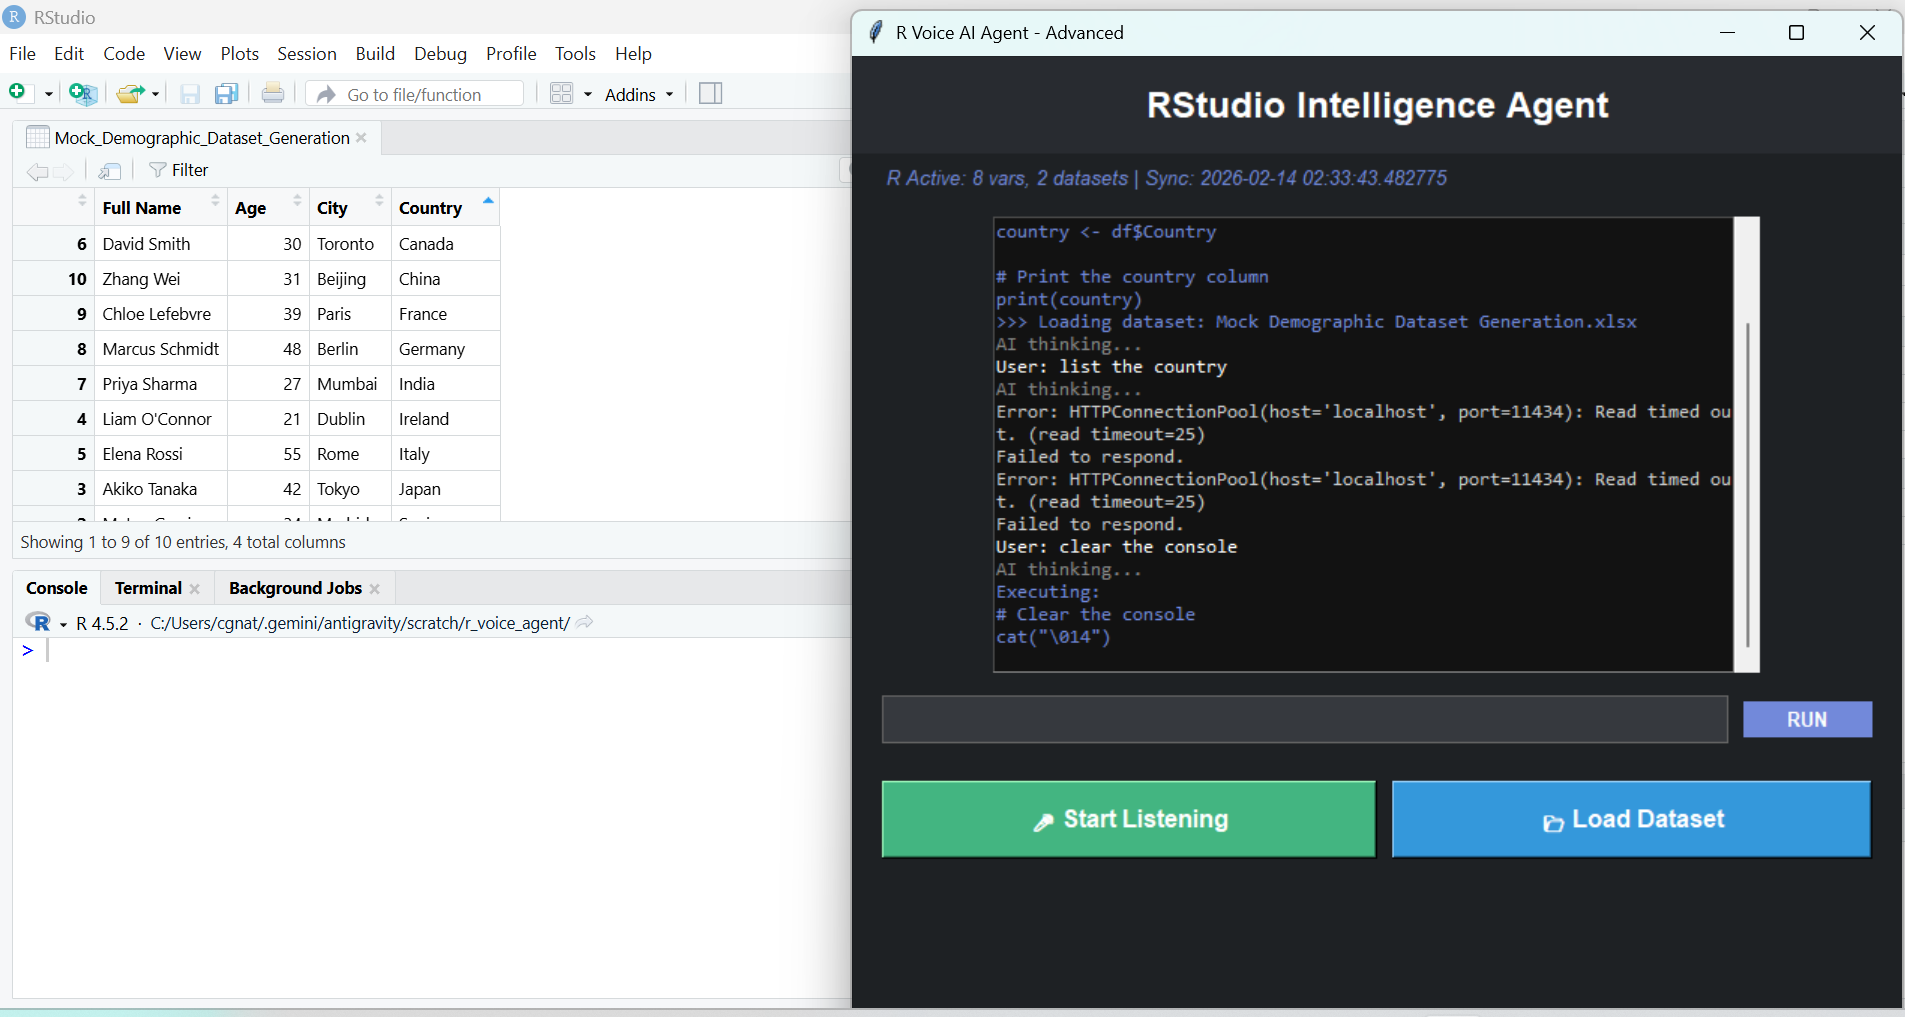
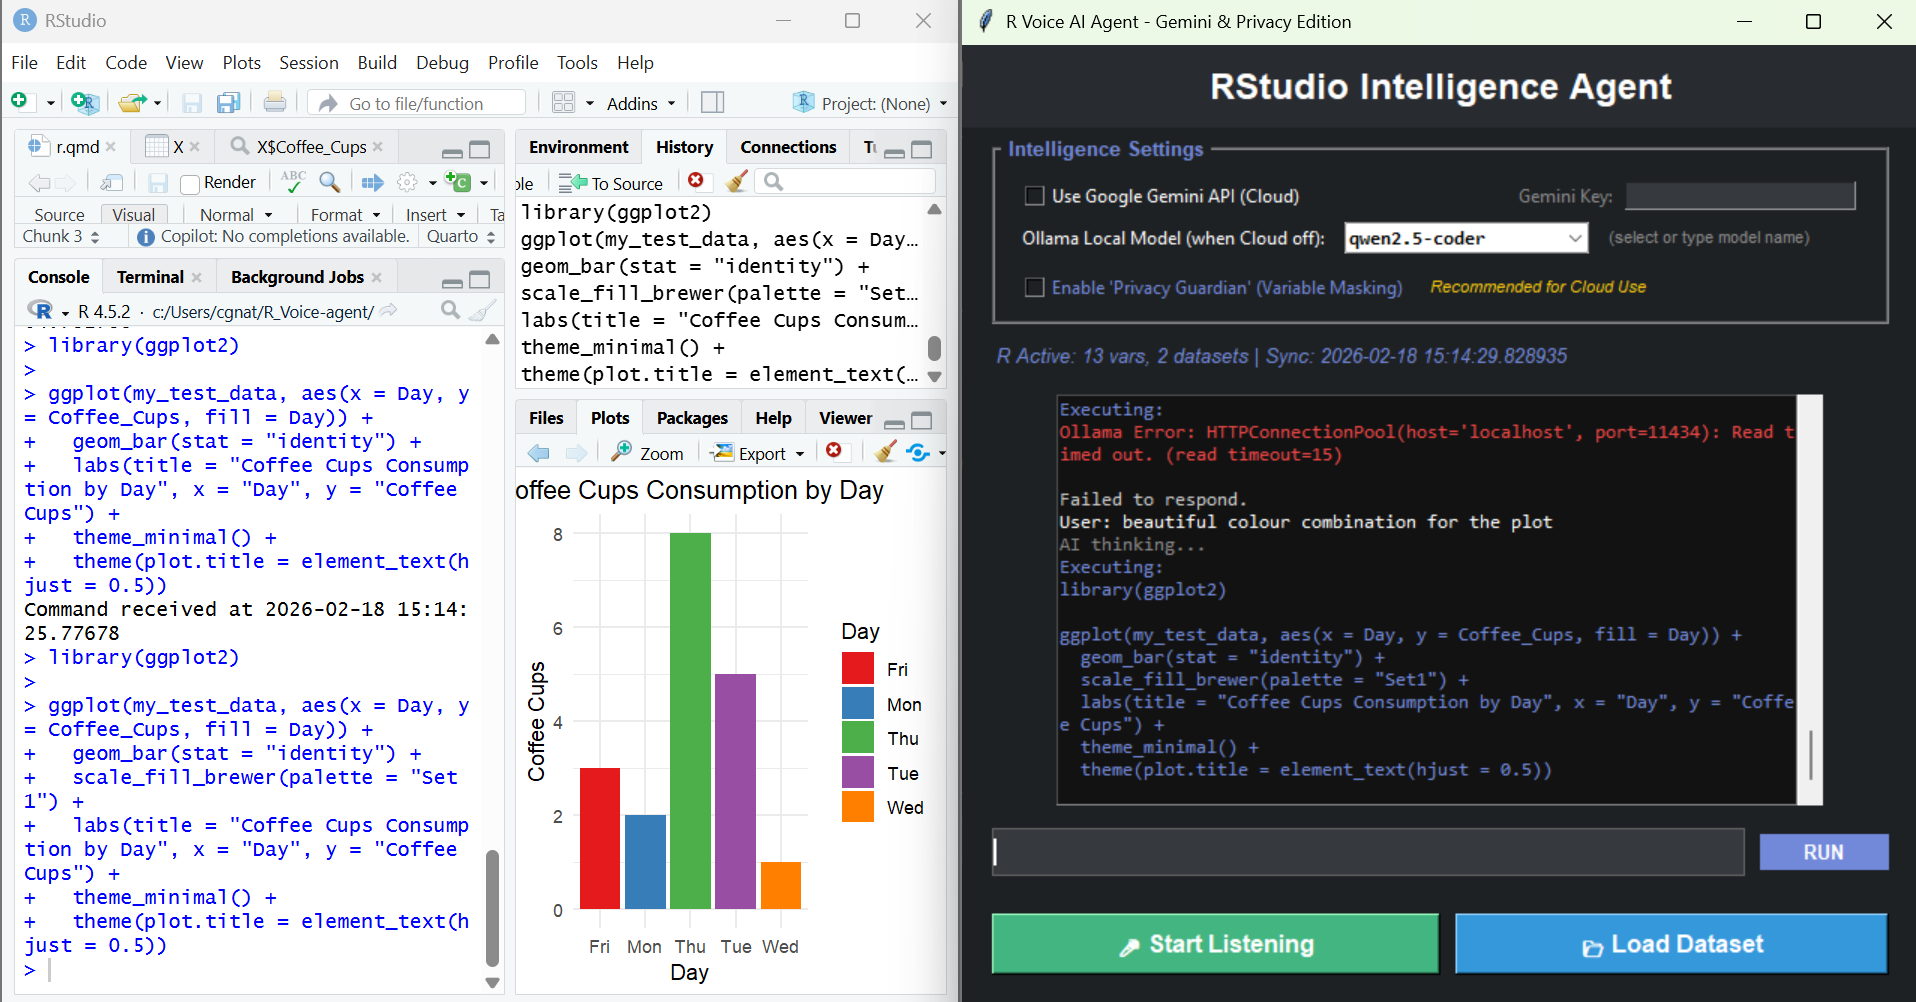
Add R Voice Agent to gallery with details

diff --git a/constants.tsx b/constants.tsx
@@ -49,8 +49,8 @@ export const PROJECTS: Project[] = [
   },
   {
     title: "R Voice AI Agent",
-    description: "This agent allows you to control RStudio using your voice. It captures your speech, converts it to R code using a local LLM (Ollama), and executes it in your R console.",
-    tags: ["RStudio", "Voice Control", "LLM", "Ollama"],
+    description: "This agent allows you to control RStudio using your voice. It leverages local LLMs via Ollama (Qwen 2.5 Coder, Llama 3.2, Mistral) and optionally integrates with the Gemini API for enhanced code generation.",
+    tags: ["RStudio", "Voice Control", "Qwen 2.5", "Llama 3.2", "Mistral", "Gemini API"],
     type: "AI",
     imageUrl: "gallery/r-voice-agent.png",
     link: "#",
@@ -460,5 +460,12 @@ export const GALLERY: GalleryItem[] = [
     category: "Conference",
     imageUrl: "gallery/Bioengineering Symposium-363.jpg",
     description: "Discussing the future of biomaterials."
+  },
+  {
+    id: "g5",
+    title: "R Voice AI Agent",
+    category: "Tech",
+    imageUrl: "gallery/r-voice-agent.png",
+    description: "Voice control for RStudio using Qwen 2.5, Llama 3.2, Mistral, and Gemini."
   }
 ];
